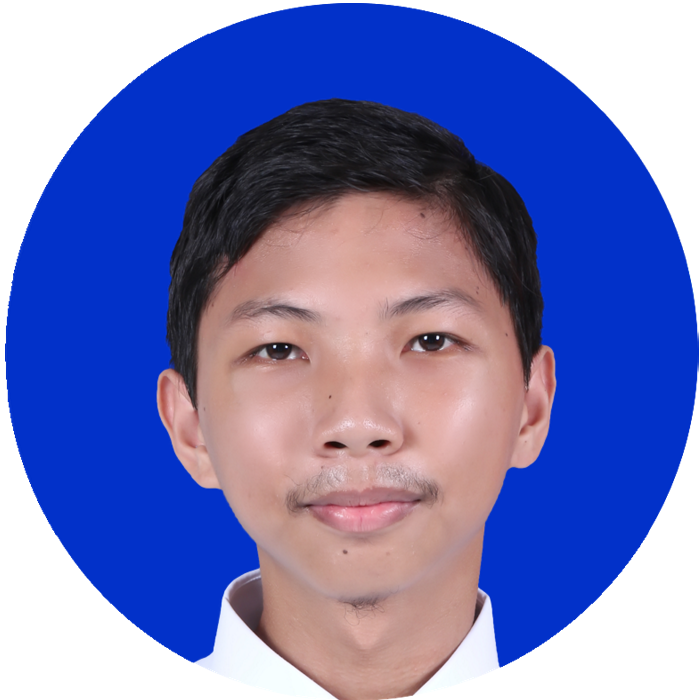
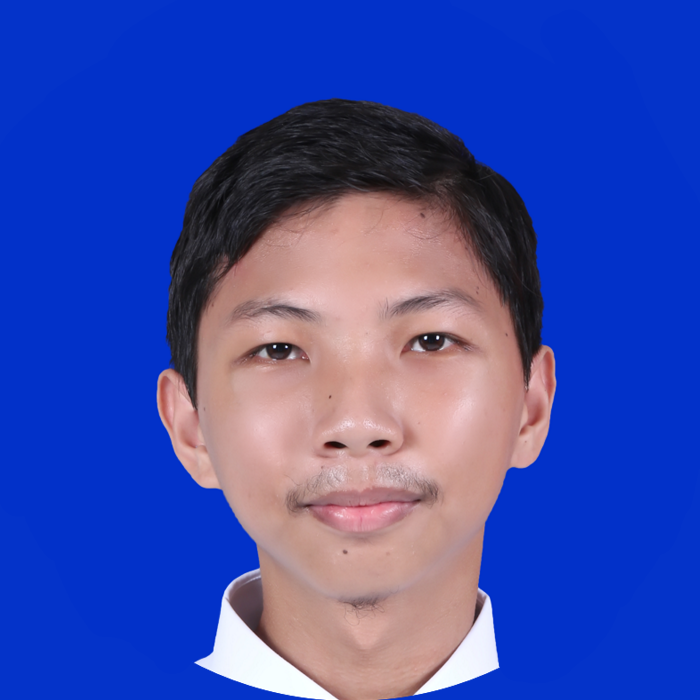
add p-leftbox 1

Changed region(s): [[0.0, 0.0, 1.0, 1.0]]

diff --git a/quiz1/profile.html b/quiz1/profile.html
@@ -26,12 +26,27 @@
                 test
             </div>
         </div>
-        <!-- <img src="CSS/img/mypic.png" style="width: 170px; height: auto; z-index: 9;"> -->
+
+        <div id="article">
+            <div class="leftBox" style="height: 450px;">
+                <img src="CSS/img/mypic.png" style="width: 170px; margin: 20px 0 20px; border-radius: 50%;">
+                <h1>Rafid Ferdianto</h1>
+                <h1 style="opacity: 0.5;"> Raferto </h1><br><br>
+                <h2>Department of Informatics <br> ITS</h2><br>
+                <h3>Surabaya, Indonesia</h3>
+            </div>
+
+            <div class="leftBox" style="height: 300px;">
+                
+            </div>
+        </div>
+
+
+
+
+
         
-
-
-
-        <div style="margin-top:200px;padding:15px 15px 2500px;font-size:30px"></div>
+        <!-- <div style="margin-top:200px;padding:15px 15px 2500px;font-size:30px"></div> -->
     </body>
 
 </html>

diff --git a/quiz1/CSS/style.css b/quiz1/CSS/style.css
@@ -71,16 +71,35 @@ body {
 }
 
 .tab {
-  background-color: var(--bgcolor-3);
+  background-color: var(--txtcolor-2);
   color: var(--txtcolor-1);
   position: fixed;
-  top: 70px;
-  left: 200px;
+  top: 75px;
+  padding-left: 350px;
   font-size: 20px;
   height: 25px;
-  width: 400px;
-  border-radius: 25px;
-  padding: 0 10px 0 10px;
+  width: 100%;
   transition: 0.2s;
   z-index: 9;
+}
+
+/* The Page */
+#article {
+  margin: 120px 1% 0 1%;
+}
+
+.leftBox {
+  width: 300px;
+  background-color: white;
+  box-shadow: 0 4px 8px 0 rgba(0, 0, 0, 0.2), 0 6px 20px 0 rgba(0, 0, 0, 0.19);
+  font-family: 'Segoe UI';
+  font-size: 13px;
+  text-align: center;
+  border-radius: 50px;
+  margin: 0 0 25px 0;
+}
+
+.leftBox h1,h2,h3 {
+  margin: 0;
+  color: var(--txtcolor-1);
 }

diff --git a/quiz1/JS/script.js b/quiz1/JS/script.js
@@ -1,10 +1,10 @@
 function scrollFunction() {
     if (document.body.scrollTop > 50 || document.documentElement.scrollTop > 50) {
       document.getElementById("header").style.height = "35px";
-      document.getElementById("mytab").style.top = "5px";
+      document.getElementById("mytab").style.top = "10px";
     }
     else {
       document.getElementById("header").style.height = "100px";
-      document.getElementById("mytab").style.top = "70px";
+      document.getElementById("mytab").style.top = "75px";
     }
   }
